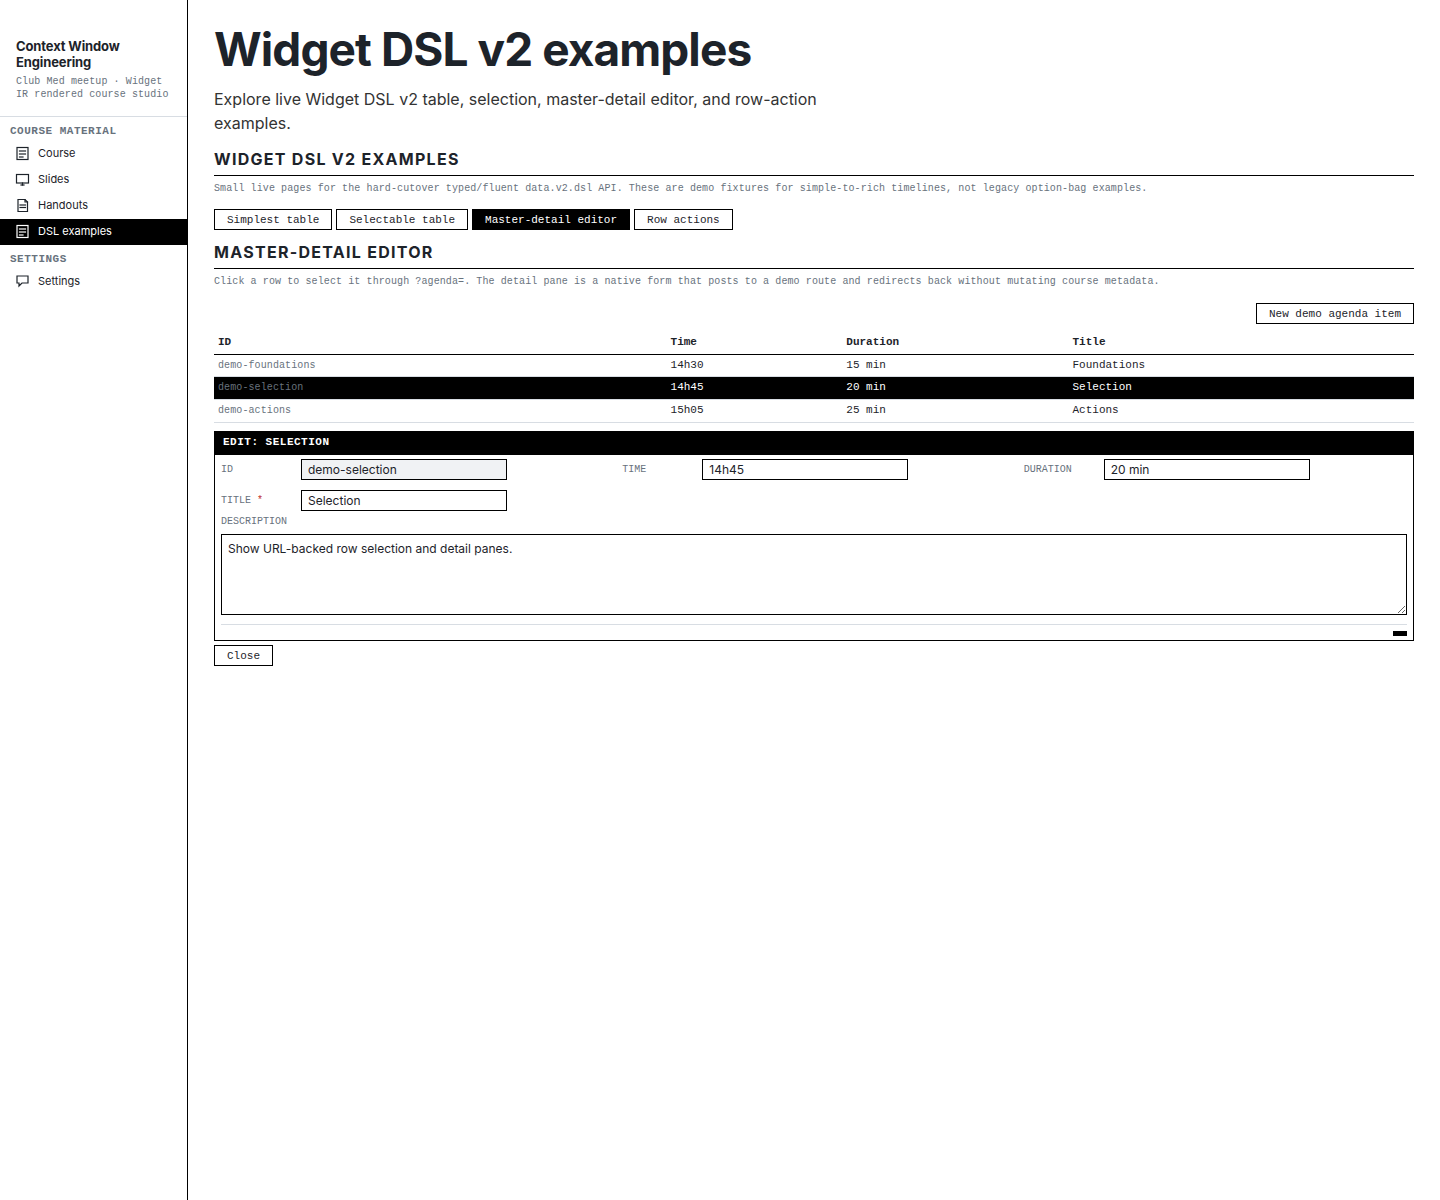
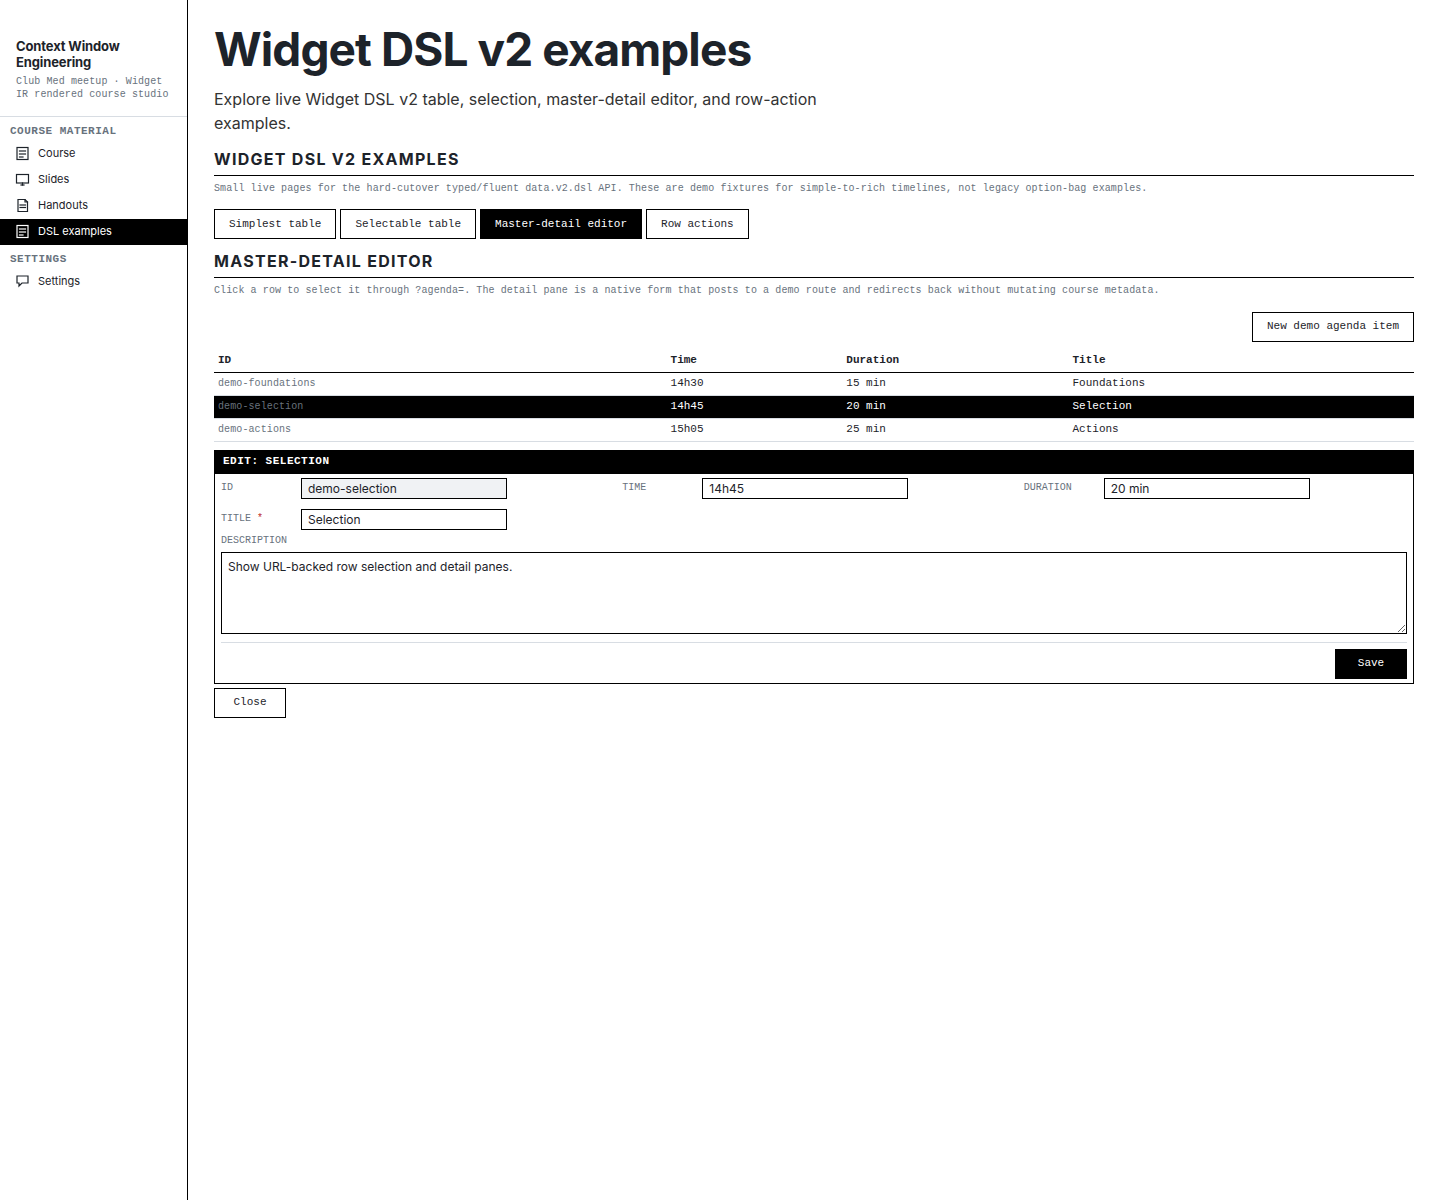
Fix Widget DSL demo form controls

diff --git a/packages/rag-evaluation-site/src/components/atoms/Button/Button.module.css b/packages/rag-evaluation-site/src/components/atoms/Button/Button.module.css
@@ -4,8 +4,16 @@
 	background: var(--mac-surface);
 	color: var(--mac-text);
 	cursor: pointer;
+	display: inline-flex;
+	align-items: center;
+	justify-content: center;
+	gap: 0.35rem;
+	min-inline-size: 2.25rem;
+	min-block-size: 1.625rem;
 	font: var(--rag-font-role-metadata);
+	line-height: 1.2;
 	padding: 2px 12px;
+	white-space: nowrap;
 }
 
 .root:hover:not(:disabled) {
@@ -34,10 +42,14 @@
 }
 
 .compact {
-	padding: 2px 6px 1px;
+	min-inline-size: 1.75rem;
+	min-block-size: 1.5rem;
+	padding: 2px 8px;
 	font: var(--rag-font-role-metadata);
 }
 
 .normal {
-	padding: 3px 12px 1px;
+	min-inline-size: 4.5rem;
+	min-block-size: 1.875rem;
+	padding: 4px 14px;
 }

diff --git a/packages/rag-evaluation-site/src/components/organisms/FormPanel/FormPanel.tsx b/packages/rag-evaluation-site/src/components/organisms/FormPanel/FormPanel.tsx
@@ -45,6 +45,7 @@ export function FormPanel({
 	children,
 	...rest
 }: FormPanelProps) {
+	const resolvedSubmitLabel = submitLabel ?? "Save";
 	const showStatus = status !== "idle" || Boolean(statusMessage);
 	const normalizedStatus = status === "idle" ? "ready" : statusKind[status];
 	const resolvedStatusMessage =
@@ -78,8 +79,8 @@ export function FormPanel({
 									{resetLabel}
 								</Button>
 							)}
-							<Button type="submit" size="compact" variant="primary" disabled={controlsDisabled}>
-								{submitLabel}
+							<Button type="submit" size="normal" variant="primary" disabled={controlsDisabled}>
+								{resolvedSubmitLabel}
 							</Button>
 						</Inline>
 					</div>

diff --git a/pkg/widgetdsl/v2/spec/lower_test.go b/pkg/widgetdsl/v2/spec/lower_test.go
@@ -108,6 +108,32 @@ func TestCollectionSpecLowersMasterDetailEditor(t *testing.T) {
 	}
 }
 
+func TestCollectionSpecLowersNewMasterDetailWithEditableKey(t *testing.T) {
+	collection := CollectionSpec{
+		Name:        "agenda",
+		Rows:        []JSONObject{{"id": "agenda-intro", "title": "Intro"}},
+		Schema:      agendaSchema(),
+		Mode:        CollectionModeEdit,
+		Selection:   &SelectionSpec{Kind: SelectionKindURLParam, Param: "agenda", Value: "__new"},
+		Arrangement: ArrangementSpec{Kind: ArrangementKindMasterDetail},
+		Actions:     CollectionActions{Submit: &SubmitSpec{FormAction: "/settings/agenda-item", Method: "post"}},
+	}
+	if issues := collection.Validate("collection"); HasErrors(issues) {
+		t.Fatalf("Validate() unexpected errors: %#v", issues)
+	}
+
+	root := collection.ToNode().ToWidgetNode()
+	detail := child(root, 1)
+	form := child(detail, 0)
+	fieldGrid := child(form, 0)
+	idRow := child(fieldGrid, 0)
+	control := idRow["props"].(JSONObject)["control"].(JSONObject)
+	controlProps := control["props"].(JSONObject)
+	if controlProps["readOnly"] != false {
+		t.Fatalf("new item key readOnly = %#v, want false", controlProps["readOnly"])
+	}
+}
+
 func TestCollectionSpecValidationRejectsBadArrangement(t *testing.T) {
 	collection := CollectionSpec{
 		Name:        "sessions",

diff --git a/pkg/widgetdsl/v2/spec/lower.go b/pkg/widgetdsl/v2/spec/lower.go
@@ -188,22 +188,22 @@ func (s CollectionSpec) detailNode(keyField string) NodeSpec {
 			}
 		}
 	}
-	form := s.recordFormNode(values, title)
+	form := s.recordFormNode(values, title, s.Selection.Value == "__new")
 	children := []NodeSpec{form}
 	children = append(children, NodeSpec{Kind: NodeKindComponent, Type: "Inline", Props: JSONObject{"gap": "sm"}, Children: []NodeSpec{{Kind: NodeKindComponent, Type: "Button", Props: JSONObject{"action": ActionSpec{Kind: ActionKindNavigate, To: "?" + s.Selection.Param + "="}.ToWidgetAction()}, Children: []NodeSpec{{Kind: NodeKindText, Text: "Close"}}}}})
 	return NodeSpec{Kind: NodeKindComponent, Type: "Stack", Props: JSONObject{"gap": "sm"}, Children: children}
 }
 
-func (s CollectionSpec) recordFormNode(values JSONObject, title string) NodeSpec {
+func (s CollectionSpec) recordFormNode(values JSONObject, title string, newItem bool) NodeSpec {
 	props := JSONObject{"title": title}
 	if s.Actions.Submit != nil {
 		props["formAction"] = s.Actions.Submit.FormAction
 		props["method"] = valueOrDefault(s.Actions.Submit.Method, "post")
 	}
-	return NodeSpec{Kind: NodeKindComponent, Type: "FormPanel", Props: props, Children: s.recordRows(values)}
+	return NodeSpec{Kind: NodeKindComponent, Type: "FormPanel", Props: props, Children: s.recordRows(values, newItem)}
 }
 
-func (s CollectionSpec) recordRows(values JSONObject) []NodeSpec {
+func (s CollectionSpec) recordRows(values JSONObject, newItem bool) []NodeSpec {
 	rows := []NodeSpec{}
 	grid := []NodeSpec{}
 	flush := func() {
@@ -222,7 +222,7 @@ func (s CollectionSpec) recordRows(values JSONObject) []NodeSpec {
 		grid = []NodeSpec{}
 	}
 	for _, field := range s.Schema.Fields {
-		row := fieldRowNode(field, values)
+		row := fieldRowNode(field, values, newItem)
 		if gridableField(field) {
 			grid = append(grid, row)
 			continue
@@ -289,13 +289,13 @@ func (s TemplateSpec) LegacyTemplateString() string {
 	return out
 }
 
-func fieldRowNode(field FieldSpec, values JSONObject) NodeSpec {
+func fieldRowNode(field FieldSpec, values JSONObject, newItem bool) NodeSpec {
 	controlType := "TextInput"
 	orientation := "inline"
 	controlProps := JSONObject{
 		"name":         field.Name,
 		"defaultValue": stringifyJSON(values[field.Name]),
-		"readOnly":     field.Editor.ReadOnly || field.Semantic == FieldSemanticKey,
+		"readOnly":     field.Editor.ReadOnly || (field.Semantic == FieldSemanticKey && !newItem),
 	}
 	if field.Editor.Placeholder != "" {
 		controlProps["placeholder"] = field.Editor.Placeholder

diff --git a/pkg/widgetdsl/v2_builders.go b/pkg/widgetdsl/v2_builders.go
@@ -30,7 +30,7 @@ func (r *runtime) installDataV2(exports *goja.Object) {
 func (r *runtime) v2FieldFactoryObject() *goja.Object {
 	f := r.vm.NewObject()
 	setExport(f, "key", func() *goja.Object {
-		return r.v2FieldBuilder(v2spec.FieldSpec{Kind: v2spec.FieldKindString, Semantic: v2spec.FieldSemanticKey, Editor: v2spec.EditorSpec{Control: v2spec.EditorControlText, ReadOnly: true}, Summary: v2spec.SummarySpec{CellKind: "caption"}})
+		return r.v2FieldBuilder(v2spec.FieldSpec{Kind: v2spec.FieldKindString, Semantic: v2spec.FieldSemanticKey, Editor: v2spec.EditorSpec{Control: v2spec.EditorControlText}, Summary: v2spec.SummarySpec{CellKind: "caption"}})
 	})
 	setExport(f, "primary", func() *goja.Object {
 		return r.v2FieldBuilder(v2spec.FieldSpec{Kind: v2spec.FieldKindString, Semantic: v2spec.FieldSemanticPrimary, Editor: v2spec.EditorSpec{Control: v2spec.EditorControlText}, Summary: v2spec.SummarySpec{CellKind: "field"}})

diff --git a/ttmp/2026/07/05/GOJA-DSL-PLAYBOOK--goja-fluent-builder-dsl-playbook-base-research-and-resource-catalogue/reference/02-investigation-diary.md b/ttmp/2026/07/05/GOJA-DSL-PLAYBOOK--goja-fluent-builder-dsl-playbook-base-research-and-resource-catalogue/reference/02-investigation-diary.md
@@ -1138,3 +1138,67 @@ I also cleaned up public examples so new readers see `data.v2.dsl` first. The pu
   - `artifacts/dsl-demo-screenshots/selectable.png`
   - `artifacts/dsl-demo-screenshots/master-detail.png`
   - `artifacts/dsl-demo-screenshots/actions.png`
+
+## Step 20: Fix form submit visibility and clarify New demo agenda behavior
+
+The user reported that form submit buttons looked like tiny black squares and asked whether “New demo agenda item” was supposed to work. I reproduced the problem in screenshots: the button box was rendered, but the `Save` label was missing. The root cause was `FormPanel.widget.tsx` passing `null` for an absent `submitLabel`; React default parameters only apply to `undefined`, so `FormPanel` received `submitLabel = null` and rendered an empty primary button.
+
+I fixed the label fallback inside `FormPanel`, made button sizing more robust, and clarified the New demo flow. The New button is supposed to open a blank demo form; it is not a persistent create operation. The demo now says that explicitly, and v2 lowering makes the key field editable in `__new` mode so the blank form is less confusing.
+
+### Prompt Context
+
+**User prompt (verbatim):** "the submit button on the forms is like, a tiny black square that's barely visible. 
+
+Also not sure if the "New demo agenda item" is uspposed to work or not"
+
+**Assistant interpretation:** Fix the visual defect on form submit buttons and clarify or repair the New demo item behavior.
+
+**Inferred user intent:** Make the demos usable and self-explanatory before treating them as validation/examples.
+
+**Commit (code):** pending — "Fix Widget DSL demo form controls"
+
+### What I did
+- Fixed `FormPanel` to use `submitLabel ?? "Save"`, so absent labels still render visibly even when the widget adapter passes `null`.
+- Changed form submit buttons to use normal button size.
+- Added minimum inline/block sizes and inline-flex centering to button CSS.
+- Changed v2 key field defaults so existing rows remain read-only through lowering logic, but new `__new` master-detail forms can edit the key field.
+- Added a regression test for editable key fields in new master-detail mode.
+- Added explanatory captions to the master-detail/action demos when `agenda=__new`.
+- Rebuilt the rag frontend package and go-go-course embedded SPA assets from the local rag source.
+- Re-ran browser screenshots and verified the Save button is visible and the new-item caption appears.
+
+### Why
+- Empty primary buttons make the form look broken. The New demo behavior also needed to be explicit because the demo route intentionally does not persist new agenda rows.
+
+### What worked
+- Visual QA confirmed that the button is now labelled “Save” and the new-item screenshot shows a blank editable form plus explanatory caption.
+- `go test ./pkg/widgetdsl/... -count=1` passed.
+- `pnpm --dir packages/rag-evaluation-site typecheck` passed.
+- `pnpm --dir packages/rag-evaluation-site build` passed.
+- `cd go-go-course && go test ./...` passed.
+
+### What didn't work
+- The first screenshot after only CSS changes still showed a black square. That revealed the true bug was not only size/contrast; the label was null because default props did not apply to null.
+
+### What I learned
+- Widget adapter `ctx.renderValue(undefined)` returns `null`, so React component defaults should use nullish fallbacks internally for optional renderable labels.
+
+### What was tricky to build
+- New-item mode needed both UI clarification and model behavior. If the key field is always read-only, a blank new form is confusing. The lowering code now treats `__new` as an editable-key context unless a field explicitly sets readOnly.
+
+### What warrants a second pair of eyes
+- Check whether all optional renderable props in other widgets should also use nullish fallbacks rather than relying on default parameters.
+- Decide whether the demo should eventually persist rows in memory for the session, or remain a non-persistent interaction demo.
+
+### What should be done in the future
+- Add automated browser smoke tests for the Save label and New-item behavior.
+
+### Code review instructions
+- Start with `FormPanel.tsx` and `Button.module.css`.
+- Then review `pkg/widgetdsl/v2/spec/lower.go` and `lower_test.go` for new-item key editability.
+- Finally review `go-go-course/cmd/go-go-course/lib/pages/dsl-examples.js` for the explanatory caption.
+
+### Technical details
+- Updated screenshots:
+  - `artifacts/dsl-demo-screenshots/master-detail.png`
+  - `artifacts/dsl-demo-screenshots/master-detail-new.png`

diff --git a/ttmp/2026/07/05/GOJA-DSL-PLAYBOOK--goja-fluent-builder-dsl-playbook-base-research-and-resource-catalogue/design-doc/06-widget-dsl-event-timelines-and-cutover-task-plan.md b/ttmp/2026/07/05/GOJA-DSL-PLAYBOOK--goja-fluent-builder-dsl-playbook-base-research-and-resource-catalogue/design-doc/06-widget-dsl-event-timelines-and-cutover-task-plan.md
@@ -17,19 +17,25 @@ RelatedFiles:
     - Path: ../../../../../../../go-go-course/cmd/go-go-course/lib/pages/admin-course-cms.js
       Note: Real master-detail agenda editor consumer
     - Path: ../../../../../../../go-go-course/cmd/go-go-course/lib/pages/dsl-examples.js
-      Note: Live demo pages for v2 simplest table selectable table and master-detail editor
+      Note: |-
+        Live demo pages for v2 simplest table selectable table and master-detail editor
+        Clarifies New demo agenda item behavior in demo page captions
     - Path: ../../../../../../../go-go-course/cmd/go-go-course/server.js
       Note: Backend Widget page
     - Path: packages/rag-evaluation-site/src/app/App.tsx
       Note: |-
         Frontend page loading and action dispatch timeline
         Server action payload hydration and direct navigation confirmation paths
+    - Path: packages/rag-evaluation-site/src/components/atoms/Button/Button.module.css
+      Note: Makes compact and normal buttons visibly sized instead of tiny black squares
     - Path: packages/rag-evaluation-site/src/components/molecules/DataTable/DataTable.widget.tsx
       Note: |-
         DataTable Widget IR adapter and row action context
         Passes getRowKey into action-cell rendering
     - Path: packages/rag-evaluation-site/src/components/organisms/FormPanel/FormPanel.tsx
-      Note: Native form submit behavior for detail editors
+      Note: |-
+        Native form submit behavior for detail editors
+        Fixes missing default submit label when WidgetRenderer passed null for absent submitLabel
     - Path: packages/rag-evaluation-site/src/widgets/actions.ts
       Note: |-
         Browser action dispatcher for navigate/server/confirm behavior
@@ -45,9 +51,13 @@ RelatedFiles:
     - Path: pkg/widgetdsl/v2/spec/doc.go
       Note: Package documentation for the v2 spec layer
     - Path: pkg/widgetdsl/v2/spec/lower.go
-      Note: Initial lowering from typed v2 specs to existing Widget IR maps for pages
+      Note: |-
+        Initial lowering from typed v2 specs to existing Widget IR maps for pages
+        Allows new master-detail key fields to be editable in __new mode
     - Path: pkg/widgetdsl/v2/spec/lower_test.go
-      Note: Positive and negative tests for simple table
+      Note: |-
+        Positive and negative tests for simple table
+        Regression test for editable key in new master-detail form
     - Path: pkg/widgetdsl/v2/spec/types.go
       Note: Initial typed v2 Widget DSL intent model for pages
     - Path: pkg/widgetdsl/v2/spec/validate.go
@@ -76,6 +86,7 @@ LastUpdated: 2026-07-05T20:05:00-04:00
 WhatFor: Use when implementing or reviewing Widget DSL v2 behavior. It explains what authors write, what Widget IR is produced, what HTTP requests happen, what React code runs, and what backend code handles each interaction.
 WhenToUse: Read beside design-doc 05 before implementing table, selection, master-detail editor, form submit, row action, or richer collection examples.
 ---
+
 
 
 

diff --git a/ttmp/2026/07/05/GOJA-DSL-PLAYBOOK--goja-fluent-builder-dsl-playbook-base-research-and-resource-catalogue/changelog.md b/ttmp/2026/07/05/GOJA-DSL-PLAYBOOK--goja-fluent-builder-dsl-playbook-base-research-and-resource-catalogue/changelog.md
@@ -203,3 +203,14 @@ Cleaned up public Widget DSL docs so v2 examples are primary and v1 option-bag d
 - /home/manuel/workspaces/2026-07-03/improve-rag-evaluation-system/rag-evaluation-system/pkg/xgoja/providers/widgetsite/doc/02-widget-dsl-js-api-reference.md — Deprecated-example cleanup
 - /home/manuel/workspaces/2026-07-03/improve-rag-evaluation-system/rag-evaluation-system/ttmp/2026/07/05/GOJA-DSL-PLAYBOOK--goja-fluent-builder-dsl-playbook-base-research-and-resource-catalogue/design-doc/06-widget-dsl-event-timelines-and-cutover-task-plan.md — Real browser/demo validation evidence
 
+
+## 2026-07-05
+
+Fixed demo form usability: FormPanel submit buttons now show the default Save label visibly, buttons have minimum sizes, __new master-detail forms keep key fields editable, and demo pages explain that New demo agenda item is non-persistent.
+
+### Related Files
+
+- /home/manuel/workspaces/2026-07-03/improve-rag-evaluation-system/go-go-course/cmd/go-go-course/lib/pages/dsl-examples.js — New item explanatory caption
+- /home/manuel/workspaces/2026-07-03/improve-rag-evaluation-system/rag-evaluation-system/packages/rag-evaluation-site/src/components/organisms/FormPanel/FormPanel.tsx — Submit label fix
+- /home/manuel/workspaces/2026-07-03/improve-rag-evaluation-system/rag-evaluation-system/pkg/widgetdsl/v2/spec/lower.go — New-item editable key behavior
+